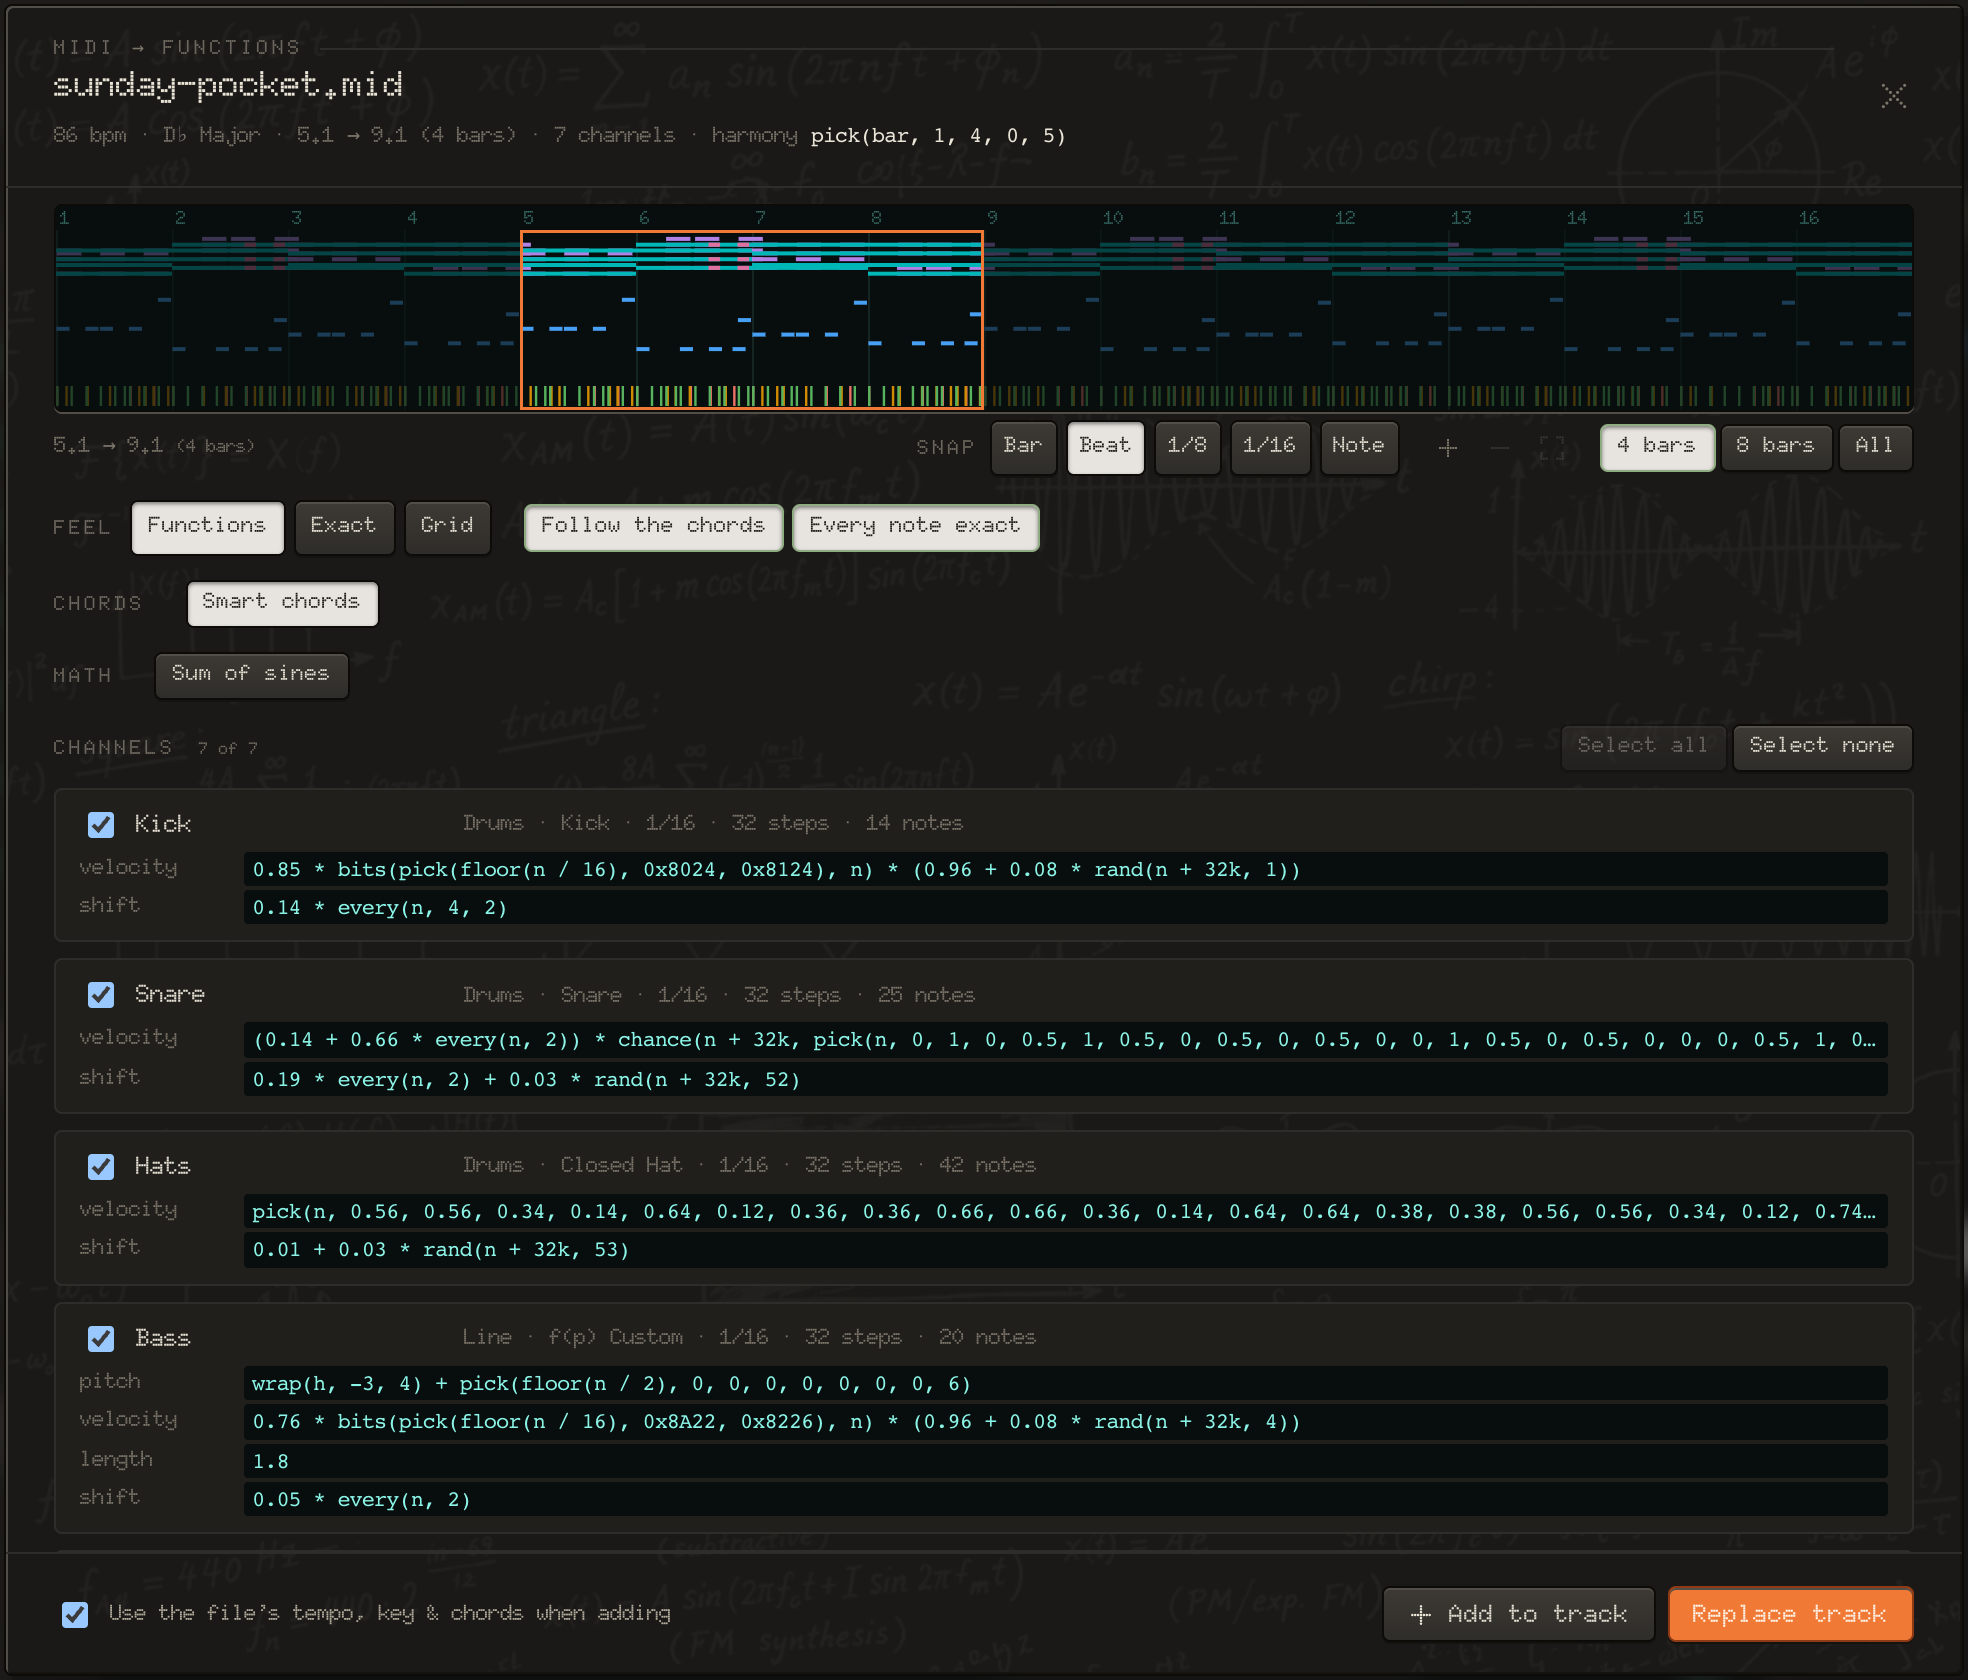
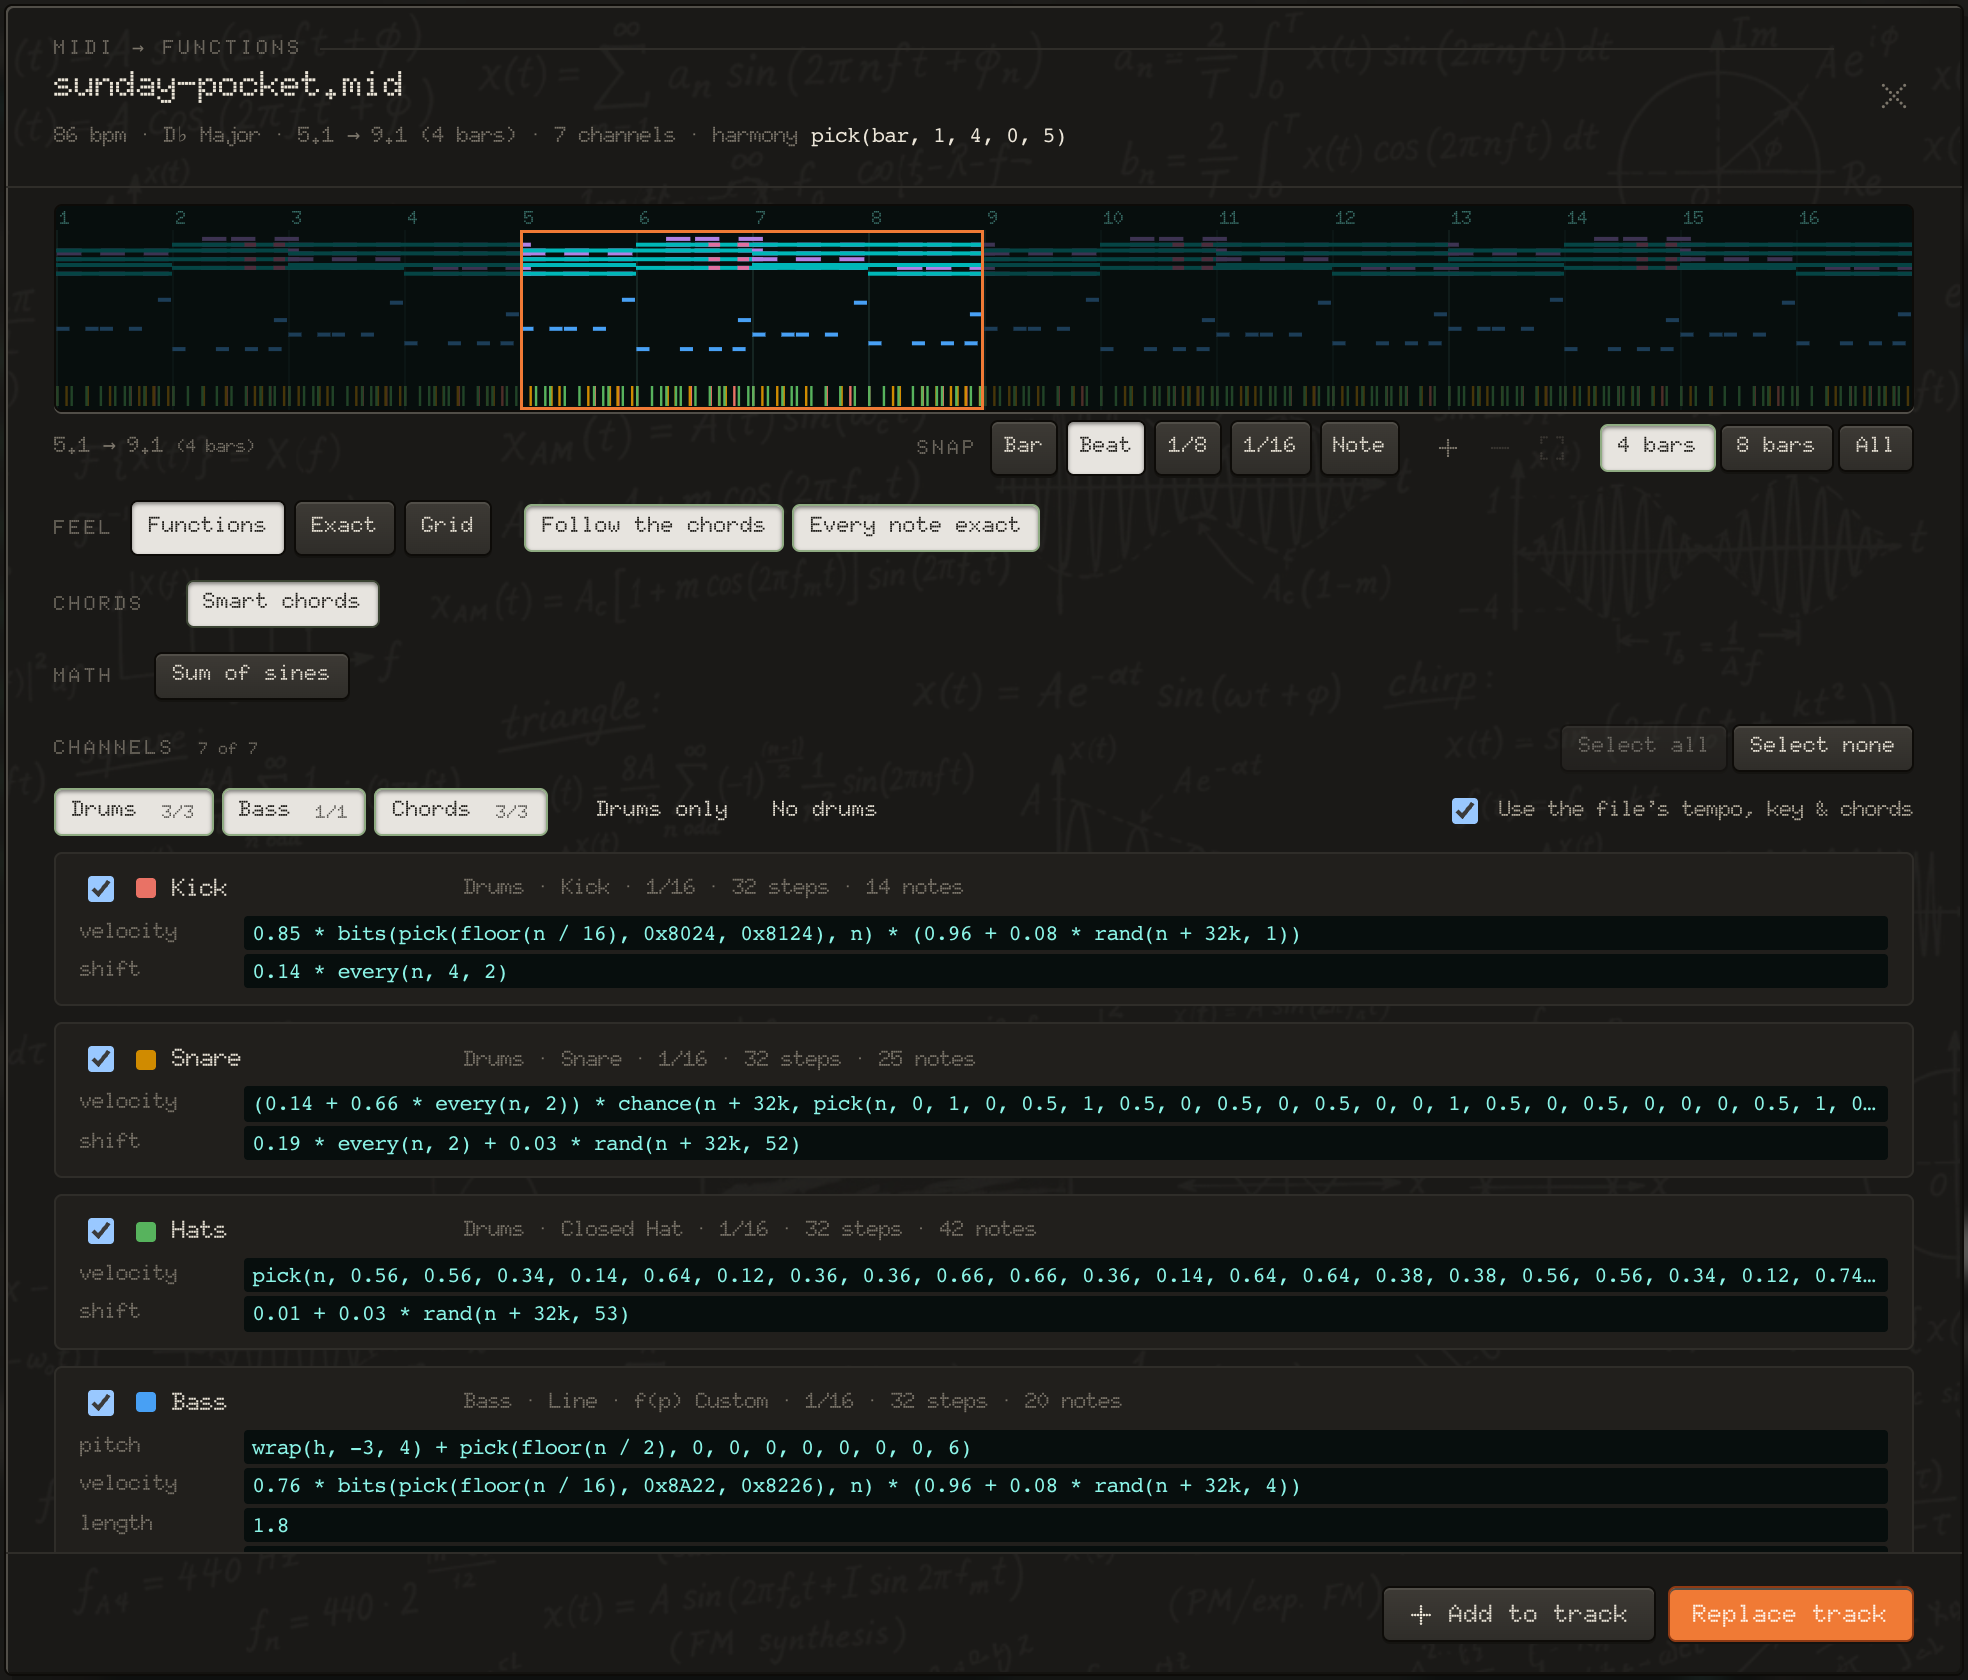
fix(visuals): scope button fix, screenshots upd for import

Changed region(s): [[0.031, 0.4643, 0.9609, 0.9286], [0.031, 0.7738, 0.093, 0.8976], [0.031, 0.9595, 0.062, 0.9905]]

diff --git a/src/components/Visualizer.tsx b/src/components/Visualizer.tsx
@@ -950,23 +950,23 @@ export function Visualizer() {
             aria-label="Backdrop"
           >
             <Icon name="wave" size={13} />
-            {backdrop !== 'off' && <span>{BACKDROP_STYLES.find((b) => b.value === backdrop)!.label}</span>}
+            <span>{BACKDROP_STYLES.find((b) => b.value === backdrop)!.label}</span>
           </button>
         </span>
-        {backdrop !== 'off' && (
-          <input
-            className="backdrop-level"
-            type="range"
-            min={0.05}
-            max={1}
-            step={0.01}
-            value={backdropLevel}
-            onChange={(e) => setBackdropLevel(Number(e.target.value))}
-            onDoubleClick={() => setBackdropLevel(1)}
-            title={`Backdrop opacity: ${Math.round(backdropLevel * 100)}% (double-click for full)`}
-            aria-label="Backdrop opacity"
-          />
-        )}
+        {/* always there, so nothing in the row moves as the key is clicked */}
+        <input
+          className="backdrop-level"
+          type="range"
+          min={0.05}
+          max={1}
+          step={0.01}
+          value={backdropLevel}
+          disabled={backdrop === 'off'}
+          onChange={(e) => setBackdropLevel(Number(e.target.value))}
+          onDoubleClick={() => setBackdropLevel(1)}
+          title={backdrop === 'off' ? 'Backdrop opacity — turn a backdrop on first' : `Backdrop opacity: ${Math.round(backdropLevel * 100)}% (double-click for full)`}
+          aria-label="Backdrop opacity"
+        />
       </div>
       {tip && (
         <div className="viz-tip" style={{ left: tip.x, top: tip.y }}>

diff --git a/src/styles.css b/src/styles.css
@@ -545,11 +545,21 @@ input[type='range']:hover::-webkit-slider-thumb {
   display: flex;
   align-items: center;
   gap: 6px;
+  /* one width for Off, Halo and Phase, so the keys beside it never move */
+  width: 9.5ch;
+  justify-content: flex-start;
+}
+.backdrop-key button svg {
+  flex: none;
 }
 .viz .viz-tabs input.backdrop-level {
   flex: none;
   width: 64px;
   min-width: 0;
+}
+.viz .viz-tabs input.backdrop-level:disabled {
+  opacity: 0.3;
+  cursor: default;
 }
 .viz-tip {
   position: absolute;

diff --git a/WALKTHROUGH.md b/WALKTHROUGH.md
@@ -53,6 +53,10 @@ Tick the channels you want, then **Replace track** or **Add to track**. Your son
 
 ![A chosen stretch: four bars, written as functions](docs/walkthrough/midi-import.png)
 
+Every channel is sorted into a group, **Drums**, **Bass**, **Chords** or **Lead**, and wears its part's colour from the overview. Click a group's key to leave it all out or bring it back, double-click it for only that group, or use **Drums only** and **No drums**. The channels coming in move to the top of the list, and the overview greys out the notes left out. **Use the file's tempo, key & chords** sits on the same row.
+
+![No drums: the bass and chords come in, the drums are greyed out](docs/walkthrough/midi-groups.png)
+
 With **Sum of sines** under *Math*, a line's pitch becomes a pure function: a few sines over the loop that land every note. *Glide line* plays it as one voice sliding along the curve.
 
 ![A bass line as a sum of sines](docs/walkthrough/midi-math.png)
